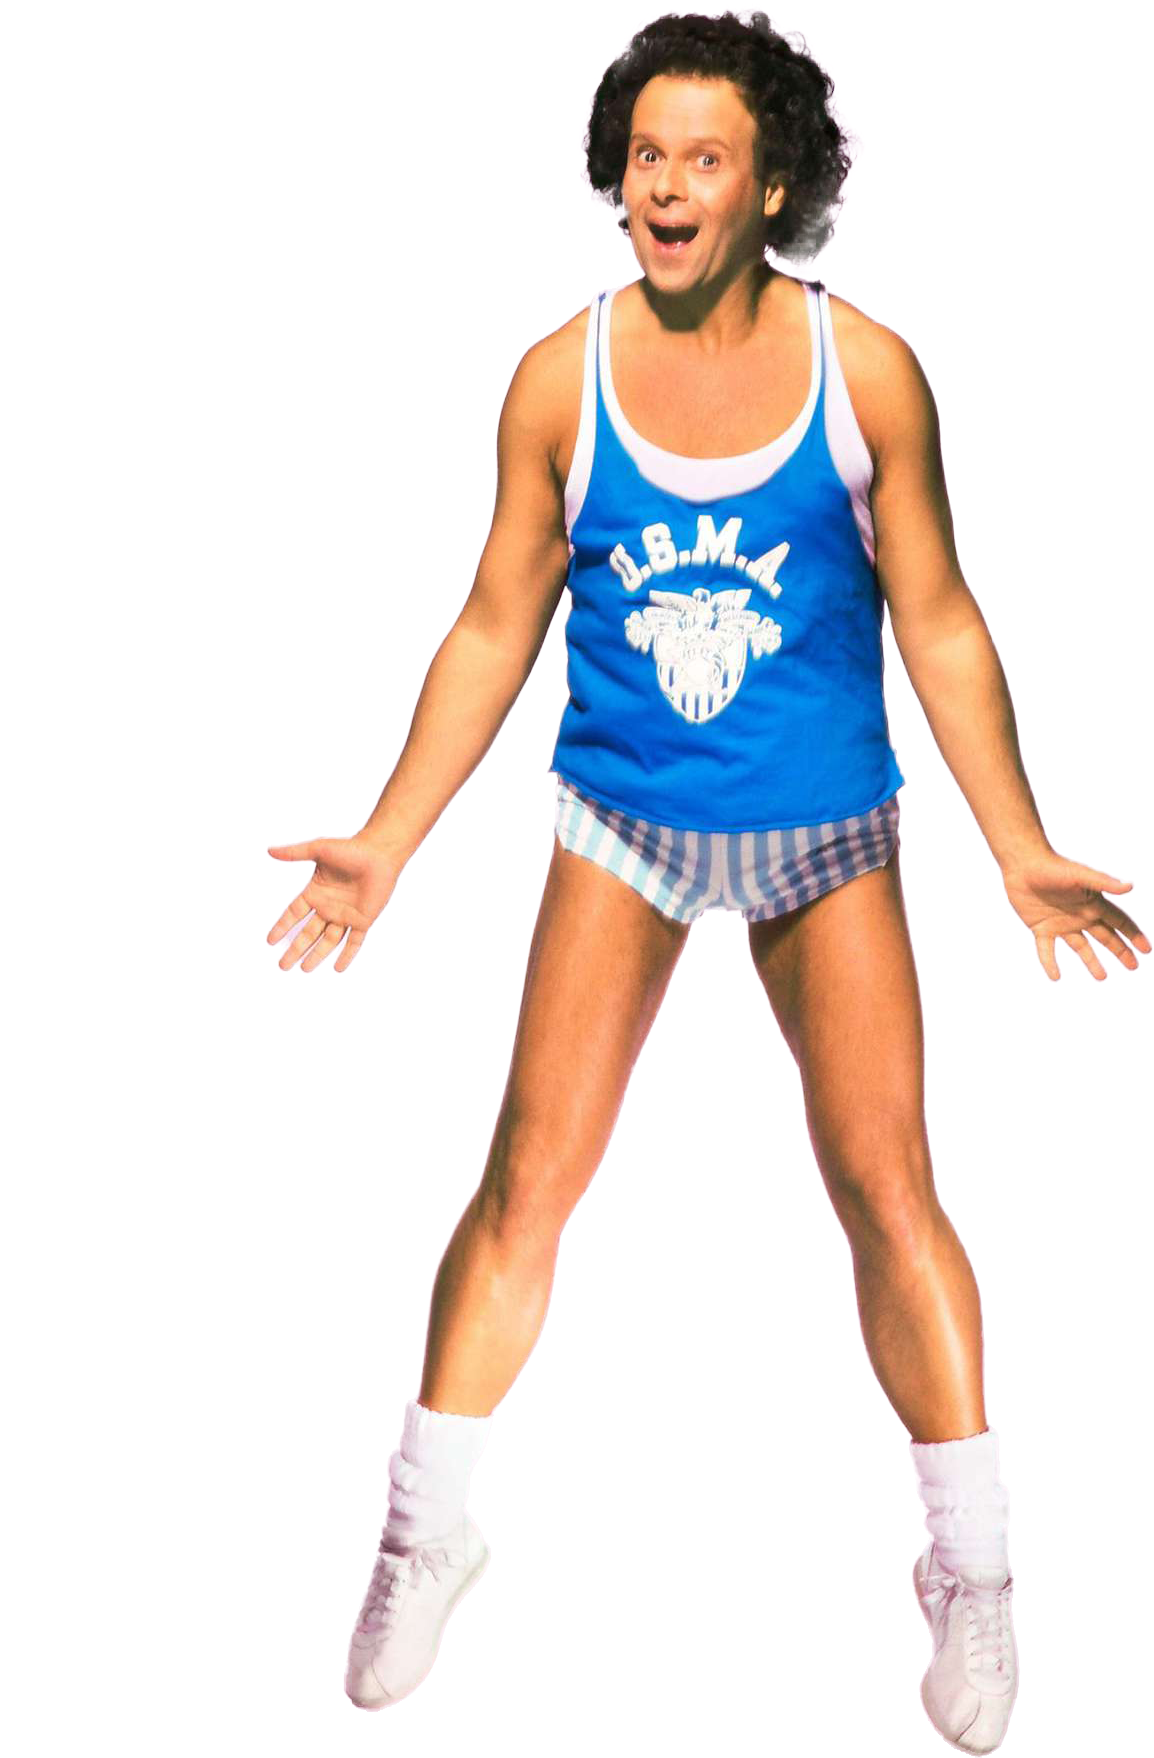
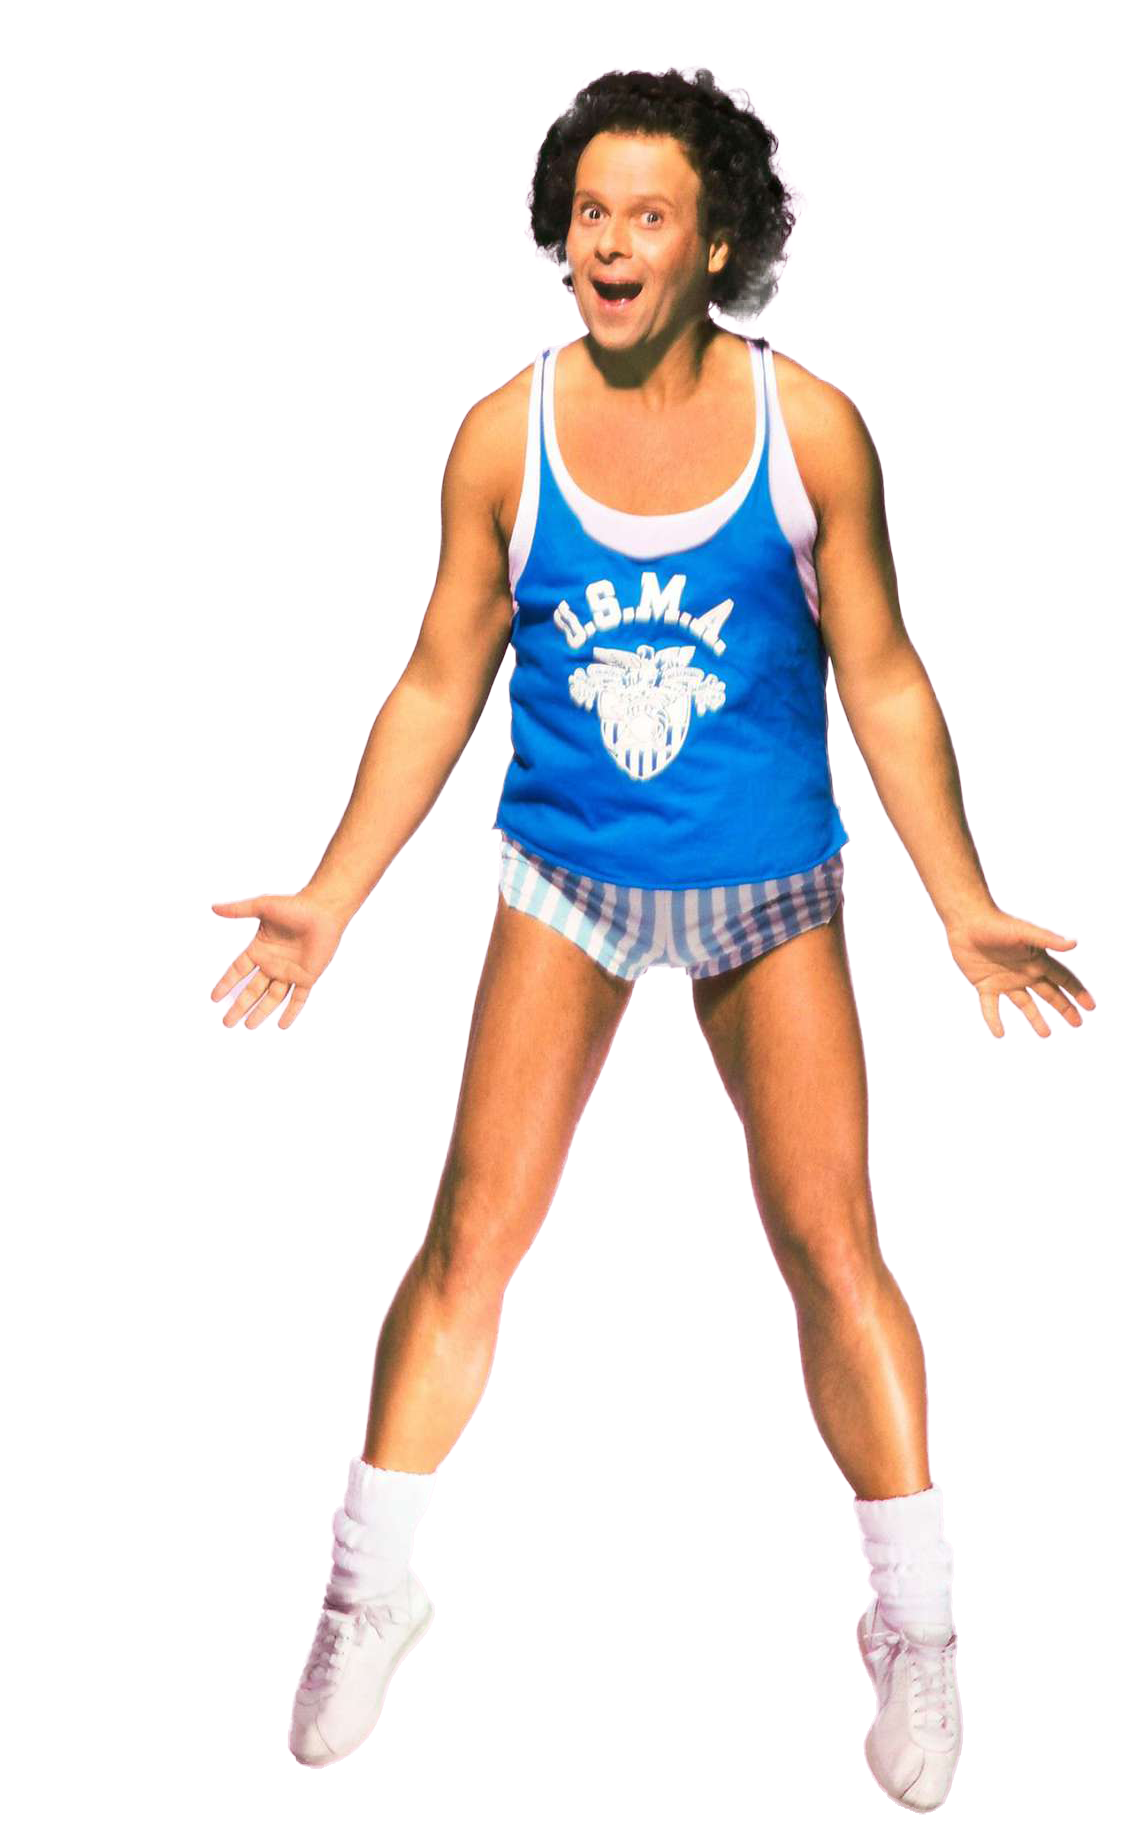
Animate richard

Changed region(s): [[0.1867, 0.0, 1.0, 1.0]]

diff --git a/src/domUpdates.js b/src/domUpdates.js
@@ -13,9 +13,11 @@ const friendsList = document.querySelector('#friends')
 const sleepHours = document.querySelector('#sleep-hours')
 const sleepQuality = document.querySelector('#sleep-quality')
 const avgSleep = document.querySelector('#avg-sleep')
+const richard = document.querySelector('.celeb')
 
 //EVENT LISTENERS
-window.addEventListener('load', renderDom)
+window.addEventListener('load', renderDom);
+richard.addEventListener('click', animateRichard);
 
 // FUNCTIONS
 function renderDom(){
@@ -27,6 +29,7 @@ function renderDom(){
       displayHydrationInfo(randomUser, hydration.hydrationData);    
       displayFriends(randomUser, info.users);
       displaySleepInfo(randomUser, sleep.sleepData);
+      animateRichard();
     })
 }
 
@@ -95,3 +98,31 @@ function displaySleepInfo(person, dataSet) {
   })
 };
 
+function animateRichard() {
+  //   richard.innerHTML = '<img src="./images/richard-animation-2.png" alt="richard-waving"></img>'
+  // setTimeout(function(){
+    richard.innerHTML = '<img src="./images/richard-animation-3.png" alt="richard-waving"></img>'
+  // }, 200);
+  setTimeout(function(){
+    richard.innerHTML = '<img src="./images/richard-animation-4.png" alt="richard-waving"></img>'
+  }, 100);
+  setTimeout(function(){
+    richard.innerHTML = '<img src="./images/richard-animation-3.png" alt="richard-waving"></img>'
+  }, 200);
+  setTimeout(function(){
+    richard.innerHTML = '<img src="./images/richard-animation-4.png" alt="richard-waving"></img>'
+  }, 300);
+  setTimeout(function(){
+    richard.innerHTML = '<img src="./images/richard-animation-3.png" alt="richard-waving"></img>'
+  }, 400);
+  setTimeout(function(){
+    richard.innerHTML = '<img src="./images/richard-animation-4.png" alt="richard-waving"></img>'
+  }, 500);
+  setTimeout(function(){
+    richard.innerHTML = '<img src="./images/richard-animation-3.png" alt="richard-waving"></img>'
+  }, 600);
+  setTimeout(function(){
+    richard.innerHTML = '<img src="./images/richard-with-text.png" alt="richard-simmons"></img>'
+  }, 700);
+  
+}

diff --git a/src/scripts.js b/src/scripts.js
@@ -4,6 +4,10 @@ import './css/styles.css';
 // IMAGES
 import './images/background-space.jpg';
 import './images/richard-with-text.png';
+import './images/richard-animation-1.png';
+import './images/richard-animation-2.png';
+import './images/richard-animation-3.png';
+import './images/richard-animation-4.png';
 
 // DOM
 import './domUpdates';

diff --git a/src/css/styles.css b/src/css/styles.css
@@ -33,7 +33,7 @@ main {
 }
 
 h1 {
-  font-family: "Neonderthaw";
+  font-family: "Neonderthaw", sans-serif;
   src: url("https://fonts.google.com/specimen/Neonderthaw");
   font-size: 3vw;
   margin-bottom: 1em;
@@ -96,6 +96,7 @@ p {
 .averages {
   width: 48%;
   height: 35vh;
+  text-align: center;
 }
 
 .hydration,
